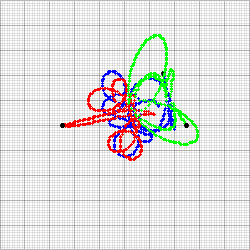
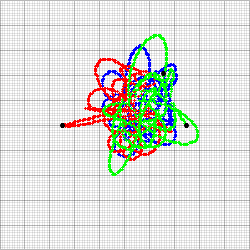
visualizations

Changed region(s): [[0.336, 0.168, 0.728, 0.7], [0.364, 0.224, 0.476, 0.364]]

diff --git a/src/main.rs b/src/main.rs
@@ -1,9 +1,9 @@
 use plotters::prelude::*;
 
 const TIME_STEP: f64 = 0.01; // s
-const STEPS: u32 = 50000000;
+const STEPS: u32 = 100000000;
 const ANIMATION_FPS: u32 = 30;
-const ANIMATION_LENGTH: u32 = 20; // s
+const ANIMATION_LENGTH: u32 = 40; // s
 
 #[derive(Clone, Debug)]
 struct Body {
@@ -130,6 +130,8 @@ fn graph_steps(steps: &[Step]) {
             )
         }))
         .unwrap();
+    }
+    for n in 0..3 {
         ctx.draw_series([steps[0].clone()].iter().map(|step| {
             Circle::new(
                 (
